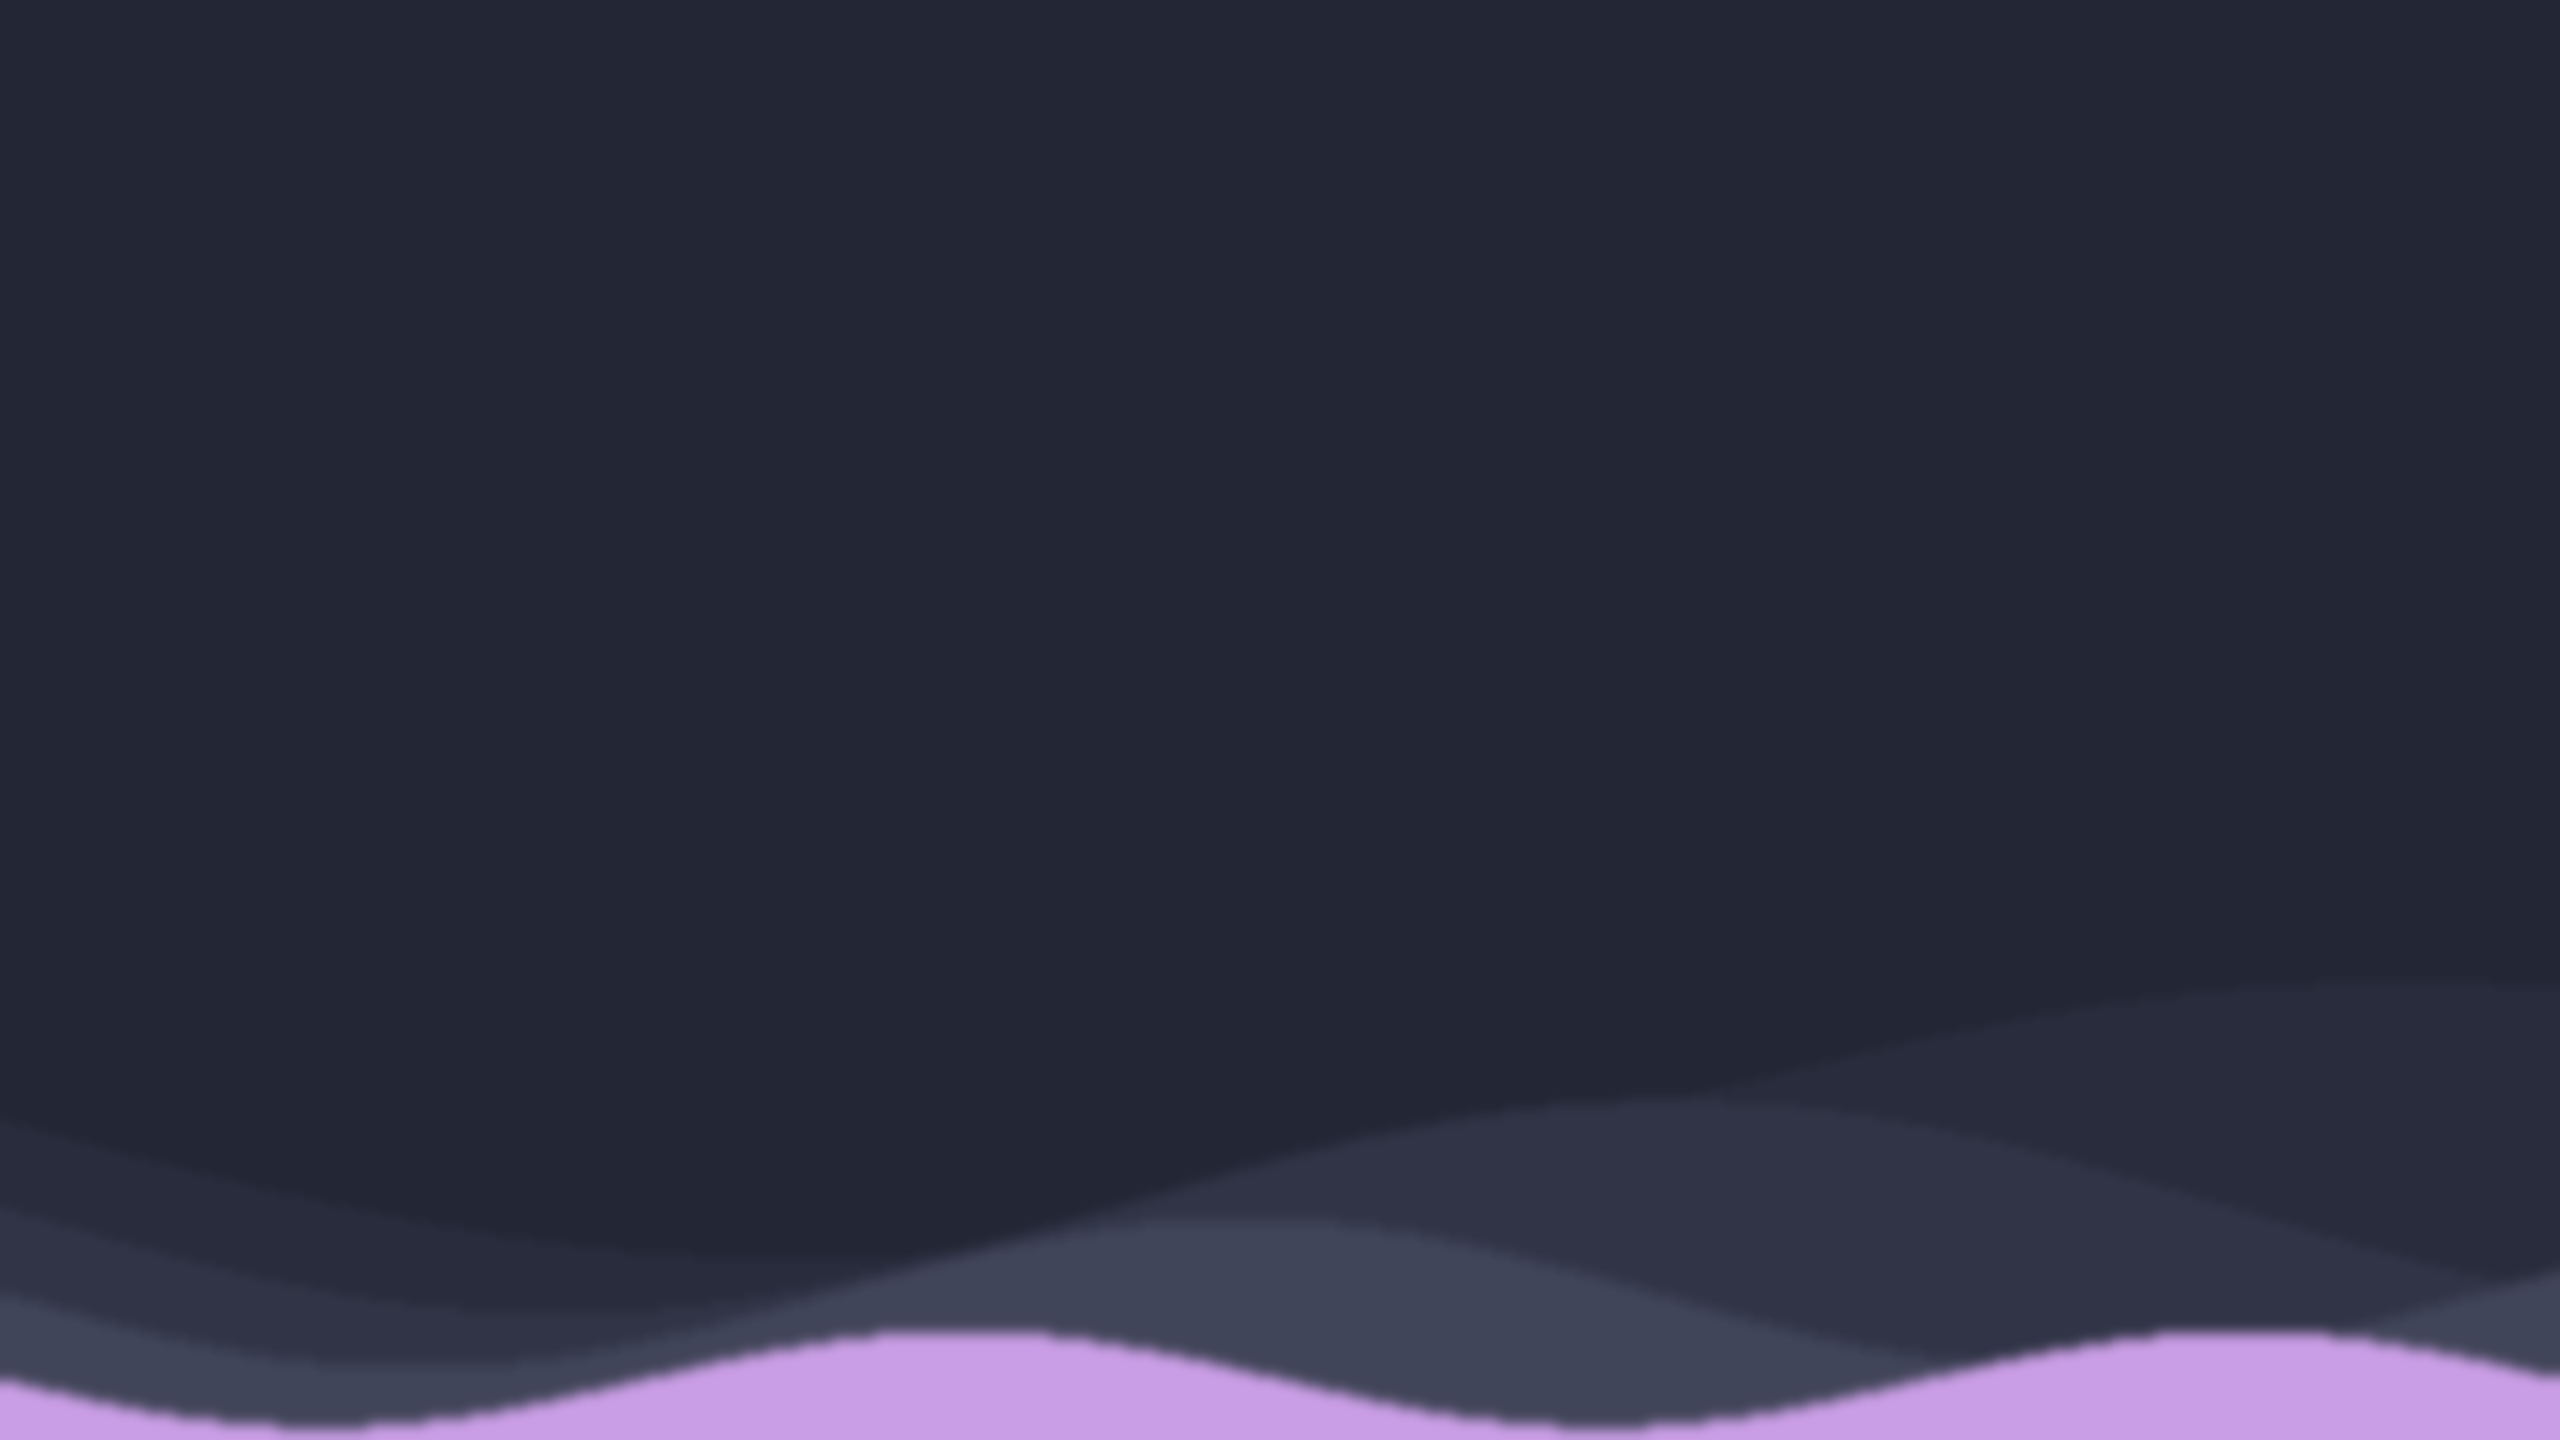
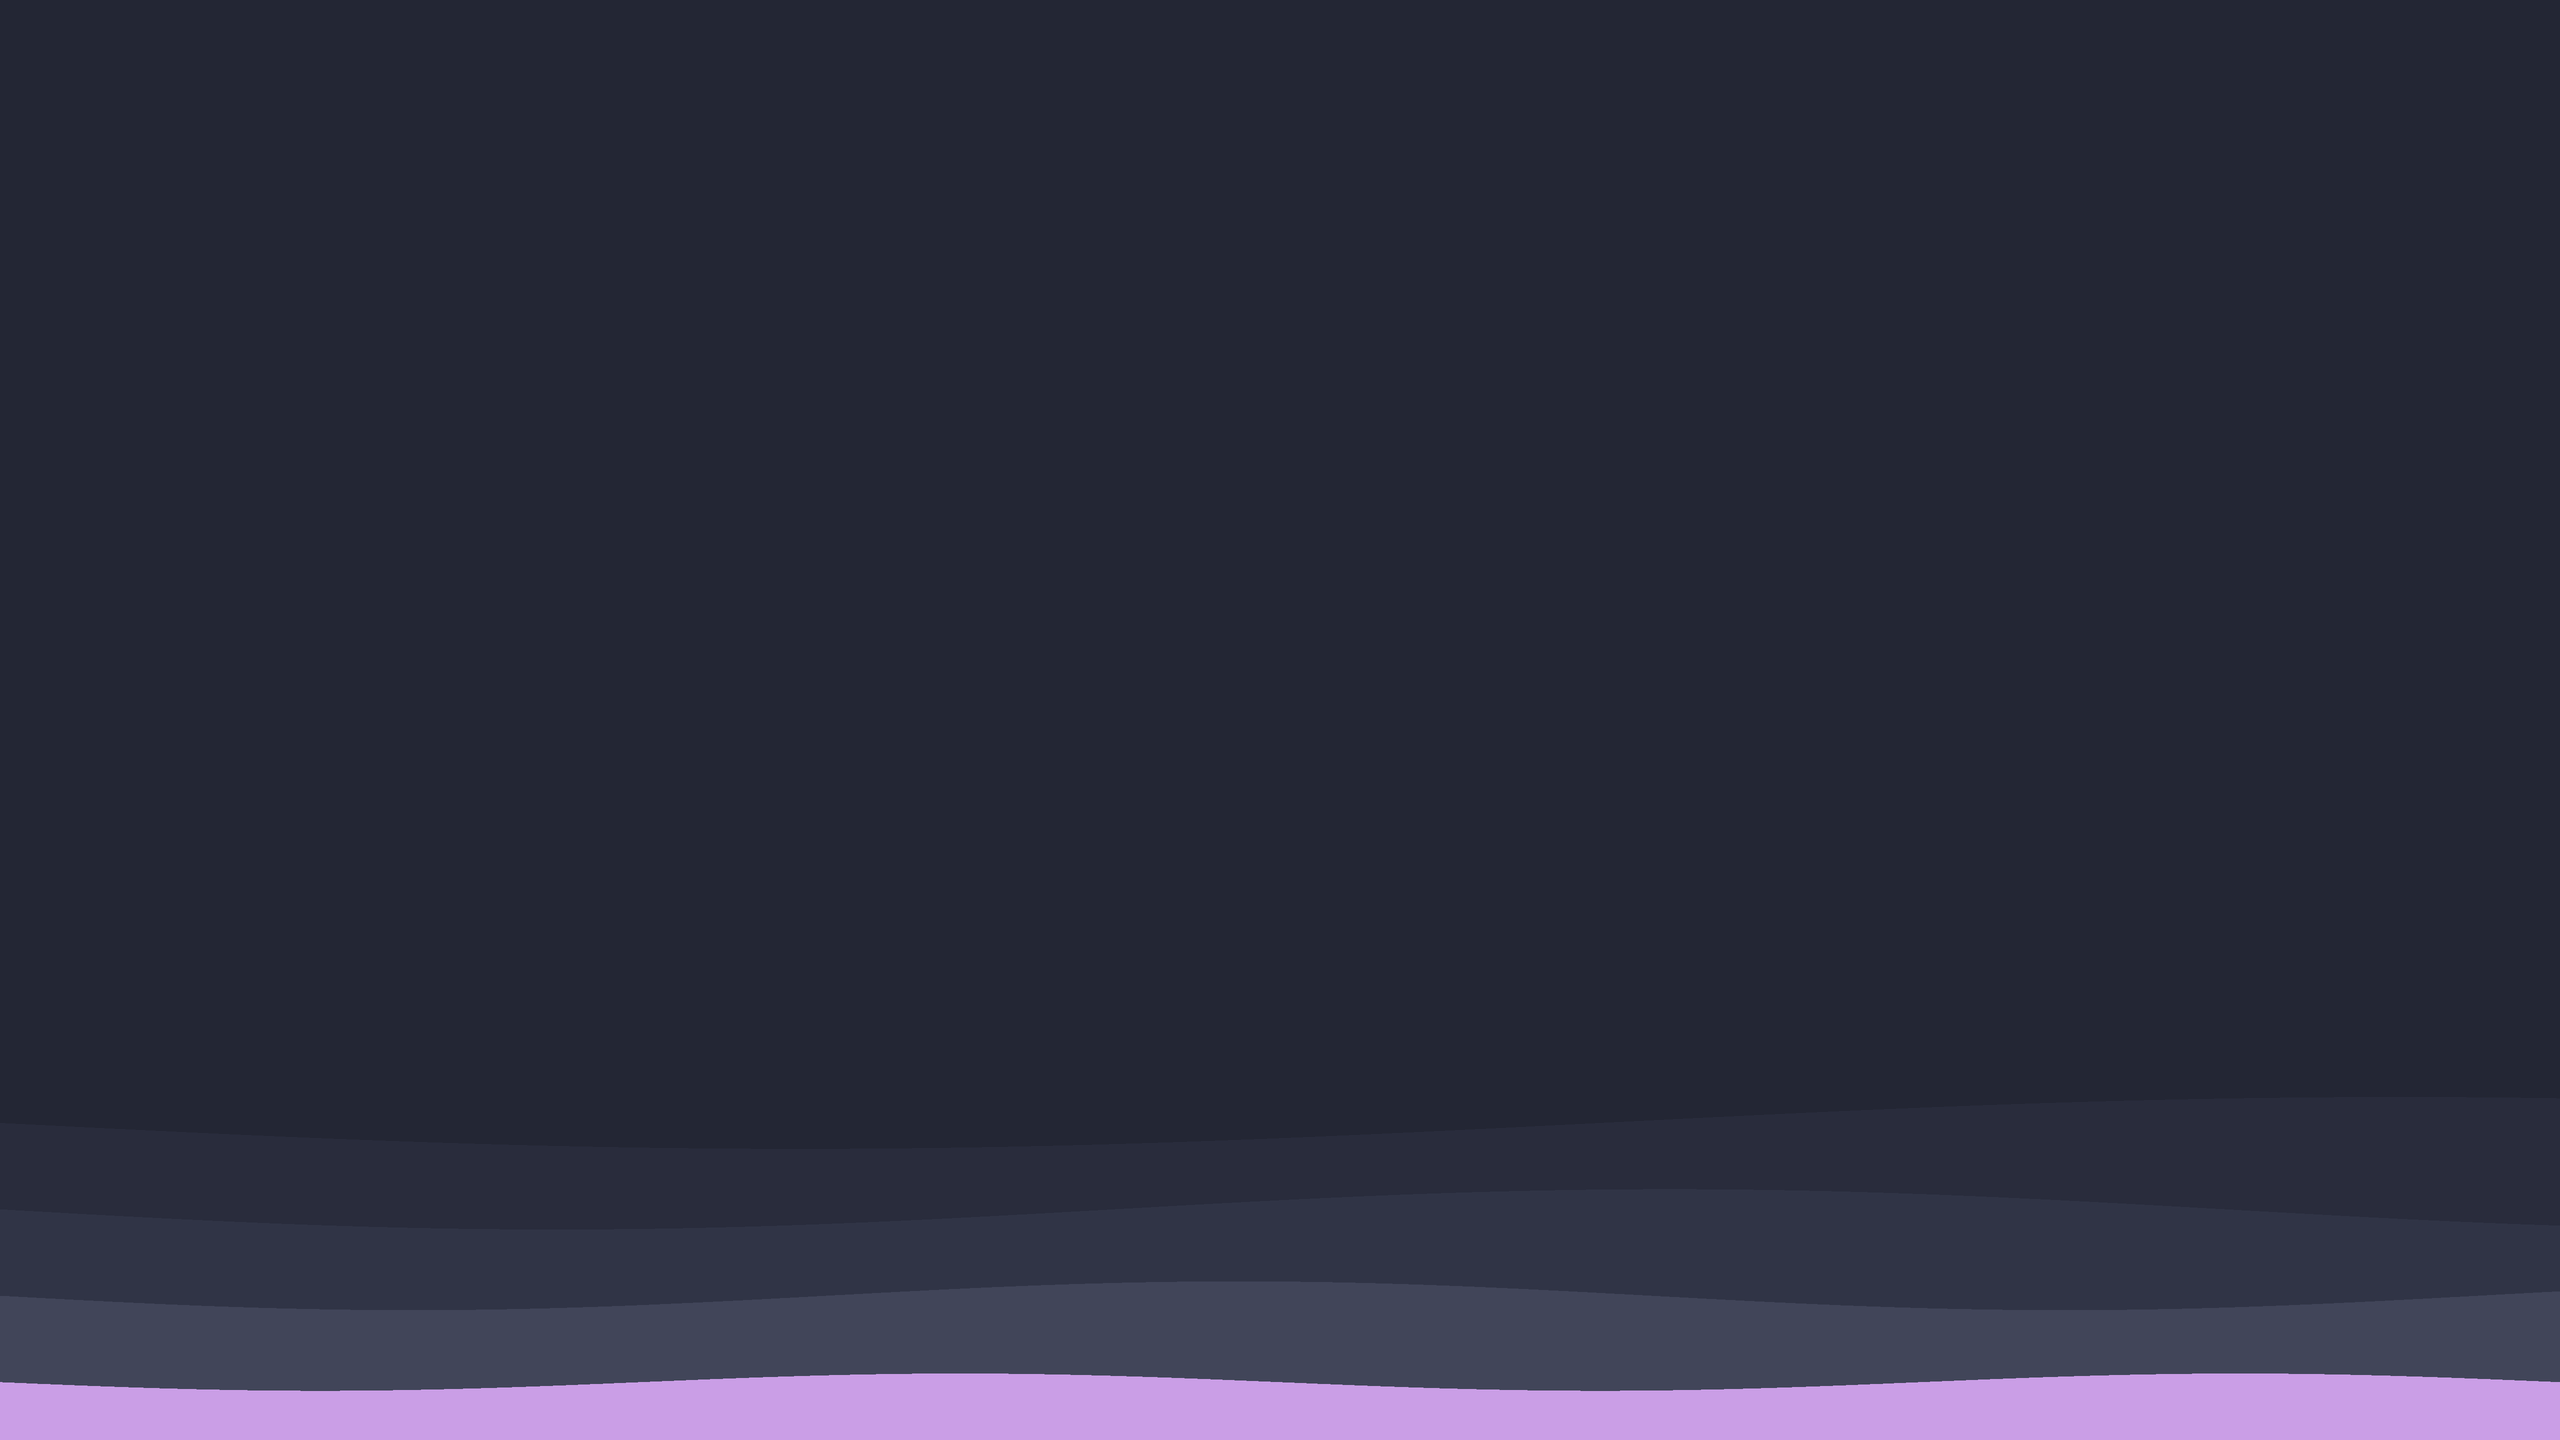
Wallpapers: supersample the waves; README: one safe install line
The waves were drawn at 480x270 and upscaled 5x, which turned every crest into
a visible staircase — a gradient survives that because it has no edges, a wave
does not. Now drawn at 2x the target and scaled down with LANCZOS, which is
antialiasing rather than a blur smeared over the top afterwards. Measured: 0.25%
hard edge pixels. Mesh and gradient raised to 960/640 while at it.

README had curl|bash as the headline and a warning about curl|bash directly
underneath, which is incoherent. One command now, and it downloads before it
runs: -O writes a file and -f fails on HTTP errors, so bash never executes a
half-arrived script. The read-it-first variant moved into a details block.

Changed region(s): [[0.0, 0.9062, 1.0, 1.0]]

diff --git a/scripts/gen-wallpapers.py b/scripts/gen-wallpapers.py
@@ -47,11 +47,12 @@ def mix(a, b, t: float):
 def gradient(colors: dict, accent: str, w: int, h: int) -> Image.Image:
     """Diagonal wash, crust -> base, with the accent bleeding in at one corner.
 
-    Rendered small and scaled up: a 160-pixel-wide gradient upscaled with a
-    bicubic filter is smooth and costs a fraction of the time, and the result
-    is indistinguishable at wallpaper scale.
+    Computed at a reduced size and scaled up. That is safe HERE and only here:
+    a gradient has no edges, so bicubic interpolation of a smooth ramp is
+    itself a smooth ramp. 640 rather than 160 across, because at 16x even a
+    ramp starts to band on a dark background.
     """
-    sw, sh = 160, 90
+    sw, sh = 640, 360
     small = Image.new("RGB", (sw, sh))
     px = small.load()
     c0, c1, ca = rgb(colors["crust"]), rgb(colors["base"]), rgb(colors[accent])
@@ -70,7 +71,7 @@ def gradient(colors: dict, accent: str, w: int, h: int) -> Image.Image:
 
 def mesh(colors: dict, accent: str, w: int, h: int) -> Image.Image:
     """Blurred colour blobs on the darkest tone."""
-    sw, sh = 320, 180
+    sw, sh = 960, 540
     img = Image.new("RGB", (sw, sh), rgb(colors["crust"]))
     draw = ImageDraw.Draw(img, "RGBA")
 
@@ -85,31 +86,44 @@ def mesh(colors: dict, accent: str, w: int, h: int) -> Image.Image:
         x, y, rad = cx * sw, cy * sh, r * sw
         draw.ellipse([x - rad, y - rad, x + rad, y + rad], fill=(*rgb(colour), alpha))
 
-    img = img.filter(ImageFilter.GaussianBlur(radius=34))
-    return img.resize((w, h), Image.BICUBIC)
+    img = img.filter(ImageFilter.GaussianBlur(radius=100))
+    return img.resize((w, h), Image.LANCZOS)
 
 
 def waves(colors: dict, accent: str, w: int, h: int) -> Image.Image:
-    """Layered sine bands — quiet, but with more structure than a gradient."""
-    sw, sh = 480, 270
+    """Layered sine bands — quiet, but with more structure than a gradient.
+
+    Unlike the other two, this one has hard EDGES, and edges are exactly what
+    upscaling ruins: the first version drew at 480x270 and blew it up 5x, which
+    turned every wave crest into a visible staircase.
+
+    So it is supersampled instead — drawn at twice the final size and scaled
+    back down with LANCZOS. Downsampling averages several drawn pixels into
+    each output pixel, which is antialiasing done properly rather than smeared
+    over afterwards with a blur.
+    """
+    ss = 2                                  # supersampling factor
+    sw, sh = w * ss, h * ss
     img = Image.new("RGB", (sw, sh), rgb(colors["crust"]))
     draw = ImageDraw.Draw(img)
 
     layers = [
-        (0.78, 26, 1.6, colors["mantle"]),
-        (0.84, 20, 2.3, colors["base"]),
-        (0.90, 14, 3.1, colors["surface0"]),
-        (0.96, 9, 4.0, colors[accent]),
+        (0.78, 0.018, 1.6, colors["mantle"]),
+        (0.84, 0.014, 2.3, colors["base"]),
+        (0.90, 0.010, 3.1, colors["surface0"]),
+        (0.96, 0.006, 4.0, colors[accent]),
     ]
-    for base_y, amp, freq, colour in layers:
+    for base_y, amp_frac, freq, colour in layers:
+        amp = amp_frac * sh
+        # One point per output pixel: any coarser and the curve itself becomes
+        # a polygon you can see.
         points = [
             (x, base_y * sh + math.sin(x / sw * math.pi * freq) * amp)
-            for x in range(sw + 1)
+            for x in range(0, sw + 1, ss)
         ]
         draw.polygon([(0, sh), *points, (sw, sh)], fill=rgb(colour))
 
-    img = img.filter(ImageFilter.GaussianBlur(radius=1.2))
-    return img.resize((w, h), Image.BICUBIC)
+    return img.resize((w, h), Image.LANCZOS)
 
 
 STYLES = {"gradient": gradient, "mesh": mesh, "waves": waves}

diff --git a/README.md b/README.md
@@ -17,30 +17,44 @@ to be worth posting.
 ---
 
 ```bash
-curl -fsSL https://buchhwin.github.io/fedora-buchhwin-hyprland/install | bash
+curl -fsSLO https://buchhwin.github.io/fedora-buchhwin-hyprland/bootstrap.sh && bash bootstrap.sh
 ```
 
-### Or read it first — and you should
+One line, and it does **not** pipe into a shell. `-O` writes the script to a
+file and `-f` makes curl fail on any HTTP error, so `bash` only ever runs a file
+that arrived complete.
+
+That distinction is not pedantry. `curl … | bash` starts executing while the
+download is still arriving, so a connection that drops halfway leaves a
+**truncated** script running — and a truncated line can mean something very
+different from the whole one. Downloading first costs you nothing and removes
+that failure mode entirely.
+
+<details>
+<summary>Read it before you run it</summary>
 
 ```bash
-curl -fsSLO https://raw.githubusercontent.com/buchhwin/fedora-buchhwin-hyprland/main/bootstrap.sh
+curl -fsSLO https://buchhwin.github.io/fedora-buchhwin-hyprland/bootstrap.sh
 less bootstrap.sh      # read it
-bash bootstrap.sh      # then run it, if you are happy
+bash bootstrap.sh      # then run it
 ```
 
-Three separate commands on purpose. `less file && bash file` looks like a
-confirmation step and is not one: `less` exits 0 even when you quit with `q`,
+Three separate commands, because `less file && bash file` looks like a
+confirmation step and is not one — `less` exits 0 even when you quit with `q`,
 so the script would run regardless of what you thought of it.
 
-Both routes install exactly the same thing. The difference is whether you ever
-see what you are running. Piping straight to a shell has a concrete failure
-mode beyond trust: **bash executes while the download is still arriving**, so a
-connection that drops halfway leaves a truncated script running — and a
-truncated line can mean something very different from the whole one.
+`bootstrap.sh` is deliberately about 30 lines: it checks you are on Fedora and
+not root, installs git if it is missing, clones this repository to
+`~/.local/share/fedora-buchhwin-hyprland`, and hands over to `install.sh` with
+whatever arguments you passed.
 
-`bootstrap.sh` is deliberately 30 lines so that reading it is a minute, not an
-afternoon. It checks you are on Fedora and not root, installs git if missing,
-clones the repository, and hands over to `install.sh` with your arguments.
+</details>
+
+Arguments are passed straight through:
+
+```bash
+bash bootstrap.sh --dry-run          # print everything, change nothing
+```
 
 Start from a plain **Fedora Server** install (or any Fedora with no desktop).
 The script adds everything else.
@@ -61,7 +75,10 @@ The script adds everything else.
 | **Lock / idle** | hyprlock + hypridle |
 | **Wallpaper** | swww, with transitions |
 | **Shell** | zsh + starship + atuin |
-| **Settings** | a GTK4 app — keys, borders, theme, wallpaper, autostart |
+| **Settings** | a GTK4 app — keys, borders, theme, wallpaper, drives, autostart |
+| **Drives** | Google Drive / OneDrive via rclone, SMB/NFS via gvfs — in the file manager sidebar like a mapped drive |
+| **Calendar** | GOA + evolution-data-server → GNOME Calendar, Evolution **and** the bar |
+| **Firewall** | ufw, on by default |
 
 Everything is Catppuccin, and that is not a figure of speech: GTK3, GTK4,
 Qt, SDDM, the lock screen, the power menu, notifications, the terminal, the
@@ -80,6 +97,18 @@ There is no list of themed applications to maintain. `theme/apply-theme.py`
 renders every config from `theme/palettes/<flavour>.json` through a template,
 then reloads whatever is running. Adding an application means adding one
 template, not editing fifteen colour schemes.
+
+## Tiling, and also not
+
+Tiling is the default. `SUPER + SHIFT + Space` turns the current workspace
+floating, where windows drag freely and snap magnetically to edges and to each
+other — and the arrow keys snap them to halves, quarters and full screen the way
+Windows does.
+
+The arrow keys do double duty on purpose: **focus while tiled, snap while
+floating.** Same keys, nothing to remember, and `SUPER + h/j/k/l` is always
+focus. No plugin is involved — plugins have to be rebuilt for every Hyprland
+release and break until someone does.
 
 ## Keyboard
 
@@ -119,6 +148,9 @@ bhctl backup        # save your settings
 ./install.sh --gpu nvidia     # amd | nvidia | intel | none | auto
 ./install.sh --flavour latte --accent blue
 ./install.sh --lang de        # installer language; English is the default
+./install.sh --with k8s       # optional extras: k8s iac db analysis virt backup
+./install.sh --no-tweaks      # leave system settings (journal, mDNS, oomd) alone
+./install.sh --no-firewall    # do not install or enable ufw
 ```
 
 ## Configuration
@@ -142,6 +174,10 @@ file is read, changed and written back whole. `bhctl update` never touches it.
 - [ARCHITECTURE.md](docs/ARCHITECTURE.md) — how the pieces fit, and why
 - [MICROSOFT.md](docs/MICROSOFT.md) — Teams, Outlook and Exchange on Linux
 - [TROUBLESHOOTING.md](docs/TROUBLESHOOTING.md) — when something is wrong
+- [DRIVES.md](docs/DRIVES.md) — cloud and network drives, and why Google Drive
+  no longer comes from GNOME Online Accounts
+- [SECURITY.md](docs/SECURITY.md) — the firewall choice, secrets, and every
+  file outside `$HOME` this installer touches
 - [CREDITS.md](docs/CREDITS.md) — upstream projects and licences
 
 Deutsch: [docs/de/](docs/de/)
@@ -152,9 +188,13 @@ Deutsch: [docs/de/](docs/de/)
   every dotfile collection you will find is still the old format and will not
   load. That is why this one is written from scratch rather than forked.
 - **Hyprland is orphaned in Fedora** — the last official build is 0.45.2 on
-  F42, and it is absent from F43 and F44. The packages come from the
-  `solopasha/hyprland` COPR, which is the only maintained source for the
-  current release.
+  F42, and it is absent from F43 and F44. Packages come from the
+  **`sachesi/hyprland`** COPR (0.56.1 for F44). Not `solopasha/hyprland`, the
+  better-known one: its newest F44 build is 0.51.1 — *before* the Lua switch,
+  so these configs would not load — and it does not install anyway, because its
+  aquamarine wants `libdisplay-info.so.2` while F44 ships `.so.3`. solopasha
+  stays enabled at a lower priority for `uwsm`, `swww` and `satty`, which
+  sachesi does not carry.
 - **`hyprctl keyword` does not work with a Lua config.** Runtime changes go
   through `hyprctl eval` or a plain reload; the settings GUI does the latter.
 - **No Snaps.** Native packages first, Flatpak where Fedora has none.
